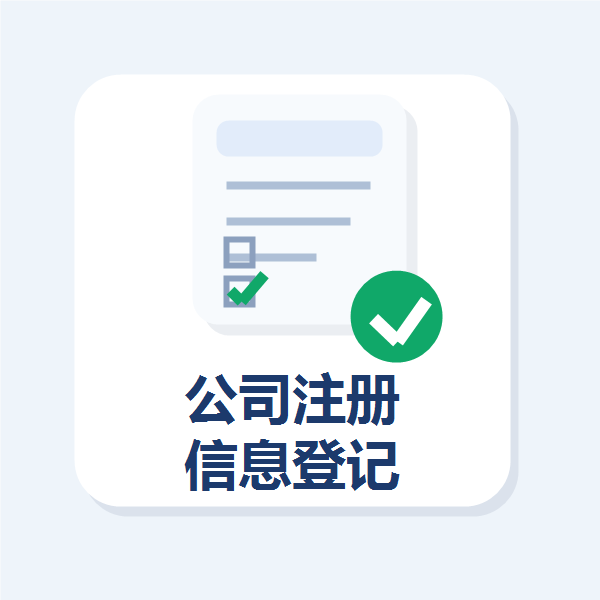
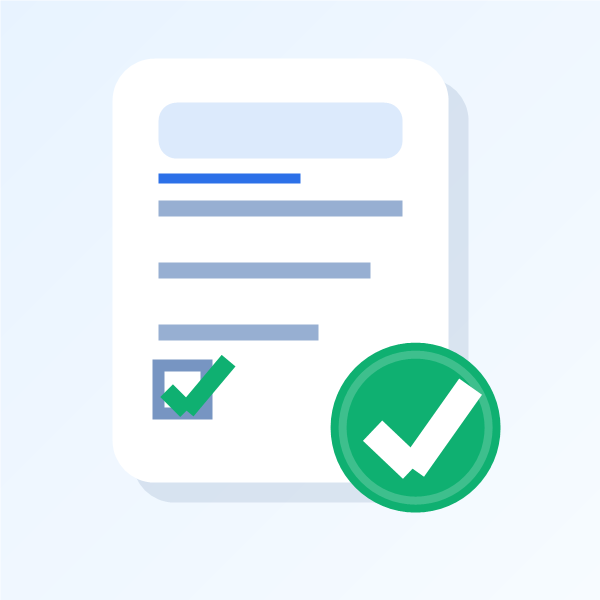
Optimize WeChat share thumbnail

Changed region(s): [[0.24, 0.15, 0.87, 0.87]]

diff --git a/frontend/index.html b/frontend/index.html
@@ -7,11 +7,11 @@
     <meta property="og:type" content="website" />
     <meta property="og:title" content="公司注册信息登记" />
     <meta property="og:description" content="请按要求补充公司登记所需信息" />
-    <meta property="og:image" content="/wechat-share-v3.png" />
+    <meta property="og:image" content="/wechat-share-v4.png" />
     <meta name="twitter:card" content="summary" />
     <meta name="twitter:title" content="公司注册信息登记" />
     <meta name="twitter:description" content="请按要求补充公司登记所需信息" />
-    <meta name="twitter:image" content="/wechat-share-v3.png" />
+    <meta name="twitter:image" content="/wechat-share-v4.png" />
     <title>公司注册信息登记</title>
   </head>
   <body>

diff --git a/docs/DEPLOYMENT.md b/docs/DEPLOYMENT.md
@@ -143,7 +143,7 @@ WECHAT_MP_APP_SECRET=你的公众号 AppSecret
 WECHAT_MP_CALLBACK_BASE_URL=https://你的域名
 WECHAT_SHARE_TITLE=公司注册信息登记
 WECHAT_SHARE_DESC=请按要求补充公司登记所需信息
-WECHAT_SHARE_IMAGE_URL=https://你的域名/wechat-share-v3.png
+WECHAT_SHARE_IMAGE_URL=https://你的域名/wechat-share-v4.png
 ```
 
 公众号后台需要配置：